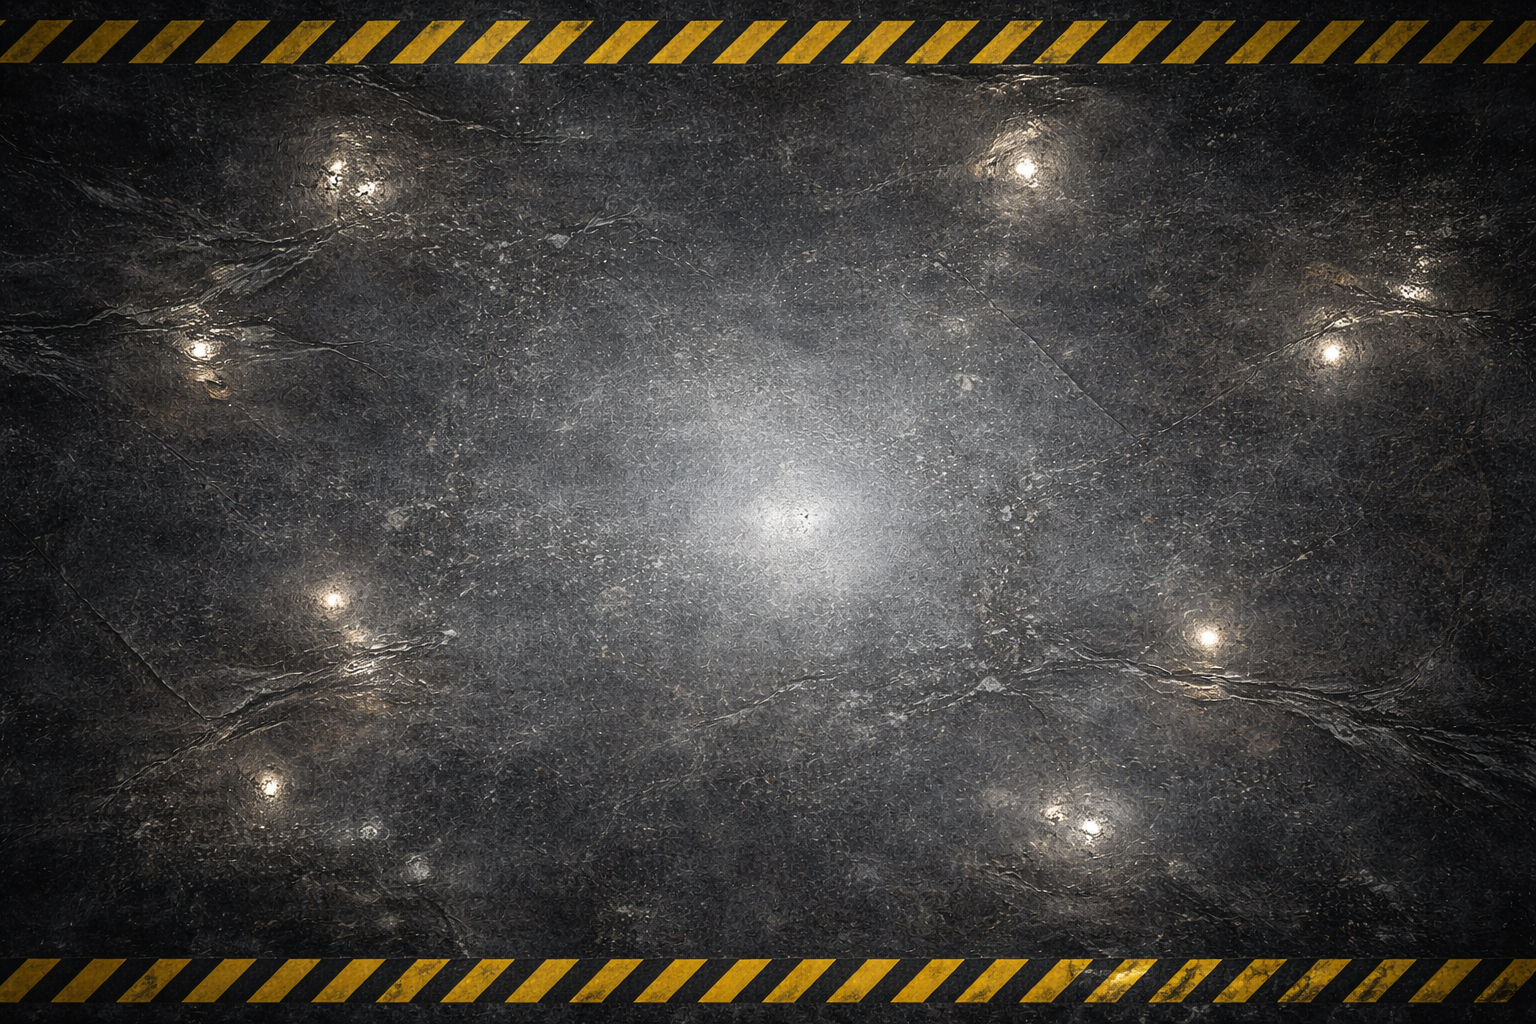
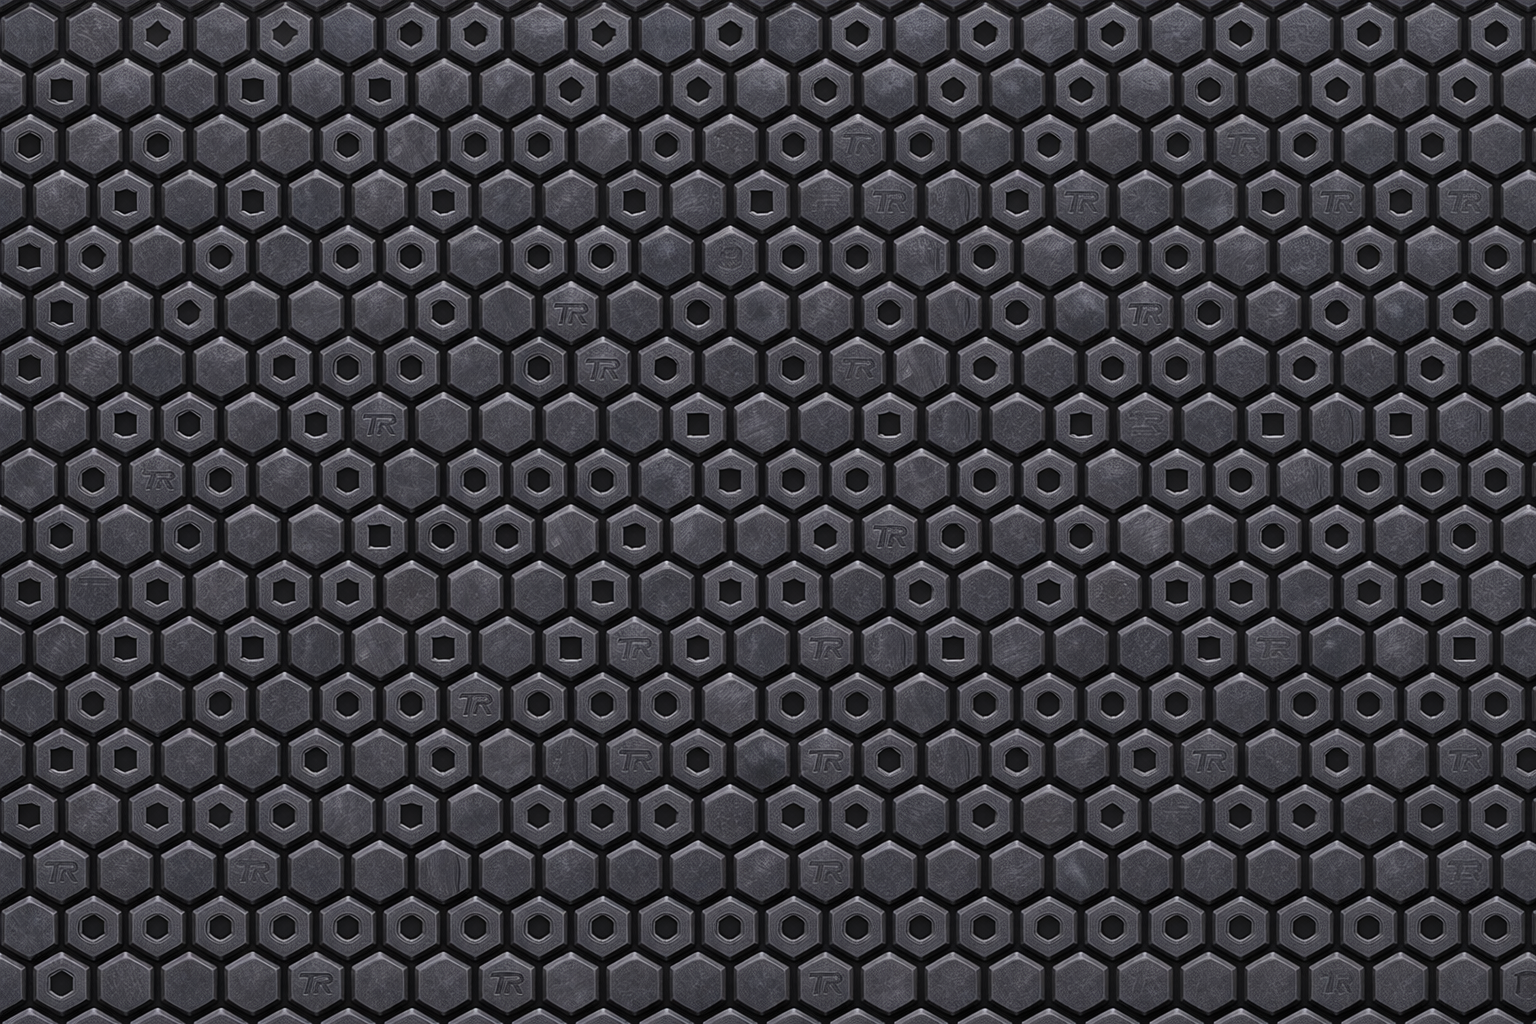
Continuar arrumando BG

diff --git a/app/assets/stylesheets/_utilities.scss b/app/assets/stylesheets/_utilities.scss
@@ -22,7 +22,7 @@
 
 .section-porque-bg {
   position: relative;
-  background-size: cover;
+  background-size: 100%; /* padrões menores: aumente (ex: 200%); padrões maiores: diminua (ex: 120%) */
   background-position: center;
   background-repeat: no-repeat;
 
